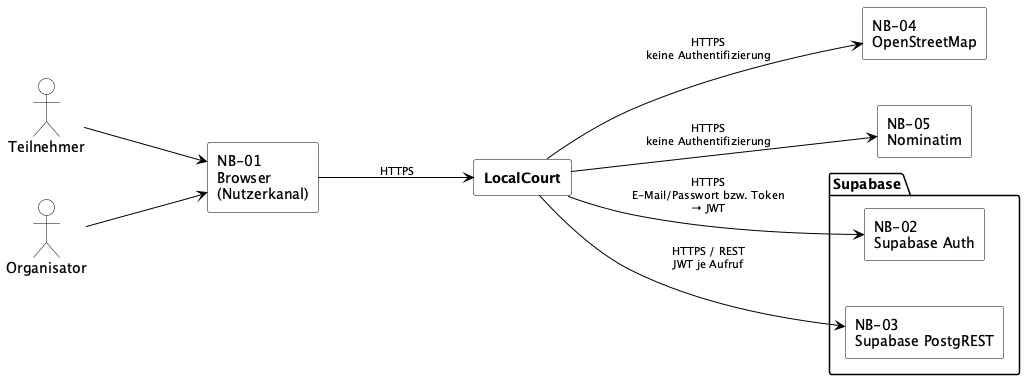
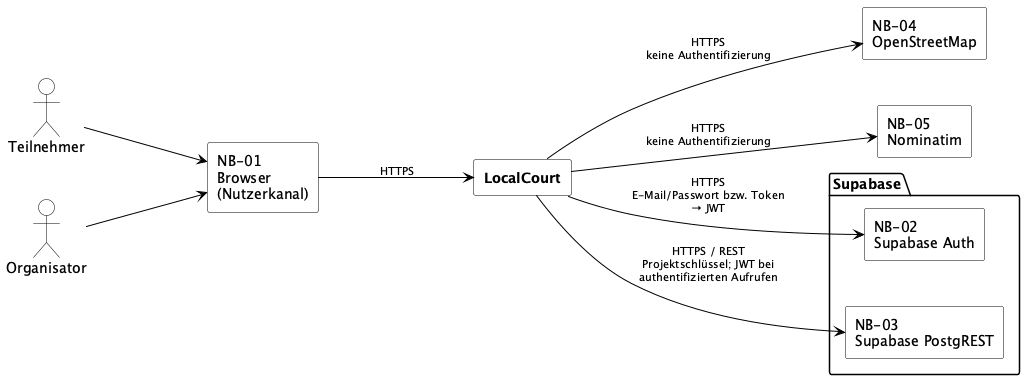
docs: align final specification and architecture consistency

Changed region(s): [[0.5886, 0.6495, 0.8364, 0.866], [0.5266, 0.5258, 0.5576, 0.6186], [0.5576, 0.6186, 0.5886, 0.6804]]

diff --git a/docs/arch/A05-building-block-view.md b/docs/arch/A05-building-block-view.md
@@ -32,7 +32,7 @@ Quelle: [`diagrams/A05-bausteinsicht-ebene1.puml`](diagrams/A05-bausteinsicht-eb
 
 ## 5.4 Whitebox Service-Schicht / Ebene 2
 
-Die Service-Schicht bündelt in der Zerlegung aus [5.1](#51-whitebox-localcourt--ebene-1) die servicebasierten Datenzugriffe und fachlichen Aktionen von LocalCourt in einem gemeinsamen Baustein — Kartenkacheln (NB-04) laufen davon unabhängig direkt über die UI-Komponentenschicht (siehe [5.2](#52-bausteindiagramm)). Damit die vier fachlichen Module und ihre Abhängigkeiten sichtbar werden, ohne das Übersichtsdiagramm aus 5.2 zusätzlich zu belasten, zeigt dieser Abschnitt die Service-Schicht als eigene Whitebox auf einer zweiten Ebene. Innerhalb dieser vier Module kapseln die **datenhaltenden Servicemodule** — `sessionService`, `courtService`, `userService` — die technische Persistenz fachlicher D1-Daten über NB-03 Supabase PostgREST/PostgreSQL. NB-02 Supabase Auth ist dabei kein eigener Speicherort fachlicher Daten; die Sitzung hält `AuthProvider` im Baustein App-Shell & Navigation, und ihr JWT geht als Identitätskontext in jeden NB-03-Aufruf ein, worauf die RLS-Policies aufsetzen ([A08 §8.3](A08-crosscutting-concepts.md#83-authentifizierung-und-zugriffsschutz)). `geocodingService` bildet dagegen ausschließlich den Zugriff auf den externen Auskunftsdienst NB-05 (Nominatim) ab und übernimmt keine Persistenzverantwortung. Eine eigene Persistenzschicht unterhalb der Service-Schicht existiert für keines der vier Module ([A08 8.1.3](A08-crosscutting-concepts.md#813-persistenzregel)).
+Die Service-Schicht bündelt in der Zerlegung aus [5.1](#51-whitebox-localcourt--ebene-1) die servicebasierten Datenzugriffe und fachlichen Aktionen von LocalCourt in einem gemeinsamen Baustein — Kartenkacheln (NB-04) laufen davon unabhängig direkt über die UI-Komponentenschicht (siehe [5.2](#52-bausteindiagramm)). Damit die vier fachlichen Module und ihre Abhängigkeiten sichtbar werden, ohne das Übersichtsdiagramm aus 5.2 zusätzlich zu belasten, zeigt dieser Abschnitt die Service-Schicht als eigene Whitebox auf einer zweiten Ebene. Innerhalb dieser vier Module kapseln die **datenhaltenden Servicemodule** — `sessionService`, `courtService`, `userService` — die technische Persistenz fachlicher D1-Daten über NB-03 Supabase PostgREST/PostgreSQL. NB-02 Supabase Auth ist dabei kein eigener Speicherort fachlicher Daten; die Sitzung hält `AuthProvider` im Baustein App-Shell & Navigation, und ihr JWT geht bei authentifizierten NB-03-Aufrufen als Identitätskontext ein, worauf die RLS-Policies aufsetzen (öffentliche Lesezugriffe laufen ohne Benutzer-JWT unter den anon-RLS-Regeln) ([A08 §8.3](A08-crosscutting-concepts.md#83-authentifizierung-und-zugriffsschutz)). `geocodingService` bildet dagegen ausschließlich den Zugriff auf den externen Auskunftsdienst NB-05 (Nominatim) ab und übernimmt keine Persistenzverantwortung. Eine eigene Persistenzschicht unterhalb der Service-Schicht existiert für keines der vier Module ([A08 8.1.3](A08-crosscutting-concepts.md#813-persistenzregel)).
 
 Neben diesen vier fachlichen Modulen liegen unter `src/services/` drei technische Hilfsmodule ohne eigene fachliche Verantwortung: `supabaseConfig.ts` und `supabaseClient.ts` stellen den konfigurierten NB-03-/NB-02-Zugang bereit, `sessionQueries.ts` bündelt die Spaltenliste von `v_session` und die Abbildung ihrer Zeilen auf die fachlichen Typen. Sie sind keine eigenen Bausteine, sondern Bestandteil der Service-Schicht.
 
@@ -48,5 +48,5 @@ Die Service-Schicht besteht aus vier fachlichen Modulen mit unterschiedlicher Ve
 |---|---|---|---|---|
 | `sessionService` | Sessions lesen/suchen/filtern; ruft die RPCs für Session-Erstellung, Beitritt und Check-in auf, ohne deren atomare Regeln selbst zu implementieren. | UC-02, UC-03, UC-05, UC-06, UC-11 (Lesen); UC-04/AF-01 (Beitritt, Aufruf `join_session`); UC-08, UC-09/AF-02 (Check-in, Aufruf `check_in`); UC-06/AF-04 (Aufruf `create_session`, PIN wird dabei serverseitig atomar erzeugt). | NB-03 Supabase PostgREST — Lesen über `v_session` sowie die RPCs `create_session`, `join_session`, `check_in` ([S1.4](../spec/S1-nachbarsysteme.md#s14-nb-03--supabase-postgrest)). | `src/services/sessionService.ts` |
 | `courtService` | Vorhandene Courts zur Auswahl lesen. Das Anlegen eines neuen Courts liegt nicht hier, sondern in `create_session`, damit kein verwaister Court zurückbleibt, wenn die Session-Erstellung scheitert ([ADR-001](A09-architecture-decisions.md#91-adr-001--atomare-fachoperationen-über-postgresql-funktionen-rpc-statt-clientseitiger-prüfung), [A06 §6.3](A06-runtime-view.md#63-session-und-court-erstellen)). | UC-10. | NB-03 Supabase PostgREST — Lesen ([S1.4](../spec/S1-nachbarsysteme.md#s14-nb-03--supabase-postgrest)). | `src/services/courtService.ts` |
-| `userService` | Profil und Sportpräferenzen lesen und aktualisieren. | UC-12. | NB-03 Supabase PostgREST — `my_profile()`, `profilAktualisieren`, `sportpraeferenzSetzen`/`-Entfernen` ([S1.4](../spec/S1-nachbarsysteme.md#s14-nb-03--supabase-postgrest)). Die Nutzerkennung kommt nicht aus einem eigenen NB-02-Aufruf, sondern serverseitig aus `auth.uid()` des mitgeführten JWT. | `src/services/userService.ts` |
+| `userService` | Profil und Sportpräferenzen lesen und aktualisieren. | UC-12. | NB-03 Supabase PostgREST — `my_profile()`, `profilAktualisieren`, `sportpraeferenzSetzen`/`-Entfernen` ([S1.4](../spec/S1-nachbarsysteme.md#s14-nb-03--supabase-postgrest)). Die Nutzerkennung kommt nicht aus einem eigenen NB-02-Aufruf, sondern serverseitig aus `auth.uid()` des bei authentifizierten Aufrufen mitgeführten JWT. | `src/services/userService.ts` |
 | `geocodingService` | Reverse-Geocoding eines gesetzten Kartenpins. | UC-10. | NB-05 Nominatim (`ortAufloesen`, [S1.6](../spec/S1-nachbarsysteme.md#s16-nb-05--nominatim-reverse-geocoding)). | `src/services/geocodingService.ts` |

diff --git a/docs/spec/E2-glossar.md b/docs/spec/E2-glossar.md
@@ -39,7 +39,7 @@ Die Begriffe in [E2.3](#e23-alphabetisches-glossar) sind **alphabetisch geordnet
 | **Baustein** | Ein in sich abgeschlossener Abschnitt der Spezifikation nach dem Siedersleben-Schema (z. B. P1, F2, D1, B1), identifiziert durch ein Kürzel und eine Kurzbezeichnung. Jeder Baustein beantwortet eine eigene Leitfrage. | Nicht zu verwechseln mit einem einzelnen Abschnitt (z. B. „F3.2") innerhalb eines Bausteins. Der Bearbeitungsstand jedes Bausteins ist ausschließlich im Spezifikationsindex gepflegt. | [E1](E1-leseanleitung.md#e14-überblick-der-bausteingruppen), [README](README.md#bausteine-der-spezifikation) |
 | **Beitritt** | Die Aktion, mit der sich ein angemeldeter Teilnehmer für eine Session anmeldet und dadurch einen Kapazitätsplatz belegt (UC-04). Die fachlichen Regeln stehen in AF-01. | Ergebnis eines erfolgreichen Beitritts ist eine Teilnahme mit Status `confirmed`. Abzugrenzen von **Check-in**: Der Beitritt reserviert vor der Session, der Check-in bestätigt die tatsächliche Anwesenheit während der Session; ein Check-in setzt einen vorherigen Beitritt voraus. | [F2 UC-04](F2-anwendungsfaelle.md#uc-04--session-beitreten), [F3](F3-anwendungsfunktionen.md#af-01--beitritts--und-kapazitätsregel) |
 | **Check-in** | Die Bestätigung der tatsächlichen Anwesenheit eines beigetretenen Teilnehmers vor Ort, per QR-Code (UC-08) oder gleichwertig per PIN (UC-09). Geprüft durch AF-02; nur möglich, solange die Session `active` ist. | Schreibweise siehe E2.2. Setzt einen vorherigen Beitritt voraus. Idempotent: ein wiederholter gültiger Check-in ändert den Zustand nicht erneut (`ALREADY_CHECKED_IN`). | [F2 UC-08/UC-09](F2-anwendungsfaelle.md#uc-08--check-in-per-qr-code-durchführen), [F3](F3-anwendungsfunktionen.md#af-02--check-in-validierung), [B1 DLG-06](B1-dialogspezifikation.md#b146-dlg-06--check-in) |
-| **Court** | Der fachliche Ort (Sportplatz, Halle o. Ä.), an dem eine Session stattfindet, mit Name, Ort und optionalen Koordinaten. Realisiert als Entitätstyp `court`. | „Court" und „Sportort" werden durchgehend **synonym** verwendet (z. B. UC-10 „Court / Sportort erfassen oder auswählen") — kein fachlicher Unterschied, sondern zwei Bezeichnungen für dasselbe Objekt. Der Entitätsname `court` ist technisch verbindlich; „Sportort" ist die deutsche Umschreibung in Prosa. Keine kommerzielle Buchungsfunktion. | [D1](D1-datenmodell.md#court--sportort), [F2 UC-10](F2-anwendungsfaelle.md#uc-10--court--sportort-erfassen-oder-auswählen) |
+| **Court** | Der fachliche Ort (Sportplatz, Halle o. Ä.), an dem eine Session stattfindet, mit Name, Ort und verpflichtenden Koordinaten. Realisiert als Entitätstyp `court`. | „Court" und „Sportort" werden durchgehend **synonym** verwendet (z. B. UC-10 „Court / Sportort erfassen oder auswählen") — kein fachlicher Unterschied, sondern zwei Bezeichnungen für dasselbe Objekt. Der Entitätsname `court` ist technisch verbindlich; „Sportort" ist die deutsche Umschreibung in Prosa. Keine kommerzielle Buchungsfunktion. | [D1](D1-datenmodell.md#court--sportort), [F2 UC-10](F2-anwendungsfaelle.md#uc-10--court--sportort-erfassen-oder-auswählen) |
 | **Datenmodell** | Die Gesamtheit der fachlichen Entitätstypen, Attribute und Beziehungen von LocalCourt, unabhängig von der technischen Umsetzung — Gegenstand des Bausteins D1. | Abzugrenzen von der technischen Repräsentation und Persistenz. D1 legt fest, welche fachlichen Daten und Beziehungen bestehen; deren technische Abbildung wird in der Architekturdokumentation beschrieben. | [D1](D1-datenmodell.md) |
 | **Datentyp** | Die fachliche Wertform eines Attributs (Wertebereich, Aufzählung, Validierungsregel) — Gegenstand des Bausteins D2, z. B. `Pin`, `SessionStatus`, `GeoCoordinate`. | Abzugrenzen von der technischen Repräsentation in TypeScript bzw. PostgreSQL; diese gehört zur Architektur und Implementierung. Fachliche Datentypnamen werden in `Backticks` geschrieben. | [D2](D2-datentypen.md) |
 | **Deep-Link** | Ein Link, der direkt in einen bestimmten Zustand von LocalCourt führt, insbesondere in den Check-in-Dialog mit Session-Bezug und PIN. Wird über den QR-Code kodiert und von der Kamera-App des Geräts geöffnet. | Technische Grundlage des QR-Code-Check-ins, aber kein eigenes Nachbarsystem — die Verarbeitung erfolgt im Browser. Nicht zu verwechseln mit einer eigenen QR-Scanner-Funktion (siehe **QR-Code**). | [S1](S1-nachbarsysteme.md#s12-nb-01--browser-nutzerkanal), [F3](F3-anwendungsfunktionen.md#af-04--pin--und-qr-code-erzeugung) |

diff --git a/docs/arch/A12-glossary.md b/docs/arch/A12-glossary.md
@@ -9,7 +9,7 @@ Das maßgebliche fachliche Glossar liegt in der Spezifikation ([E2](../spec/E2-g
 | **ADR** | Abkürzung für „Architecture Decision Record". LocalCourt dokumentiert vier solche Entscheidungen — ADR-001 (atomare Fachoperationen), ADR-002 (Service-Schicht als Integrationsgrenze), ADR-003 (Session-Status in der Datenbank) und ADR-004 (statischer Sportarten-Katalog). | [A09](A09-architecture-decisions.md) |
 | **Atomare Fachoperation** | Sammelbegriff für die drei serverseitig als unteilbare Transaktion ausgeführten Schreiboperationen `create_session`, `join_session`, `check_in`; laut ADR-001 der alleinige Schreibpfad für diese Vorgänge. In der Datenbank realisiert ([`supabase/migrations/`](../../supabase/migrations)) und vom Frontend über `sessionService` aufgerufen. Fachliche und technische Grundlagen siehe D1, F3 und N2. | [A09 ADR-001](A09-architecture-decisions.md#91-adr-001--atomare-fachoperationen-über-postgresql-funktionen-rpc-statt-clientseitiger-prüfung), [A08 §8.4](A08-crosscutting-concepts.md#84-atomare-fachoperationen-und-datenzugriff-über-die-service-schicht) |
 | **Deep-Link** | Verbindet in der Laufzeitsicht den Check-in per QR-Code mit dem Nutzerkanal NB-01: Die Kamera-App des Geräts öffnet den Link im Browser, der Check-in-Dialog übernimmt Session-Kennung und PIN. Kein eigenes Nachbarsystem. Fachliche Definition siehe E2. | [A06 §6.2](A06-runtime-view.md#62-check-in-per-qr-code-oder-pin), [S1.2](../spec/S1-nachbarsysteme.md#s12-nb-01--browser-nutzerkanal) |
-| **JWT** | Zugangstoken, das NB-02 Supabase Auth nach erfolgreicher Anmeldung ausgibt und das bei authentifizierten Aufrufen gegen NB-03 zur Nutzerzuordnung verwendet wird. Grundlage für N1-QA-03; der Supabase-Client führt es seit der Auth-Anbindung bei jedem Aufruf gegen NB-03 mit (§8.3). | [A03 §3.2](A03-context-and-scope.md#32-technischer-kontext), [A04 §4.1](A04-solution-strategy.md#41-technologie), [S1.3](../spec/S1-nachbarsysteme.md#s13-nb-02--supabase-auth) |
+| **JWT** | Zugangstoken, das NB-02 Supabase Auth nach erfolgreicher Anmeldung ausgibt und das bei authentifizierten Aufrufen gegen NB-03 zur Nutzerzuordnung verwendet wird. Grundlage für N1-QA-03; der Supabase-Client führt es bei authentifizierten Aufrufen zusätzlich zum öffentlichen Projektschlüssel mit, öffentliche Lesezugriffe erfolgen ohne Benutzer-JWT unter den anon-RLS-Regeln (§8.3). | [A03 §3.2](A03-context-and-scope.md#32-technischer-kontext), [A04 §4.1](A04-solution-strategy.md#41-technologie), [S1.3](../spec/S1-nachbarsysteme.md#s13-nb-02--supabase-auth) |
 | **Nachbarsystem (NB-nn)** | Stabile IDs für den Nutzerkanal NB-01 (Browser, kein menschlicher Akteur) und die vier weiteren Nachbarsysteme: NB-02 Supabase Auth, NB-03 Supabase PostgREST, NB-04 OpenStreetMap und NB-05 Nominatim. Fachliche Definition und Abgrenzung siehe E2/S1. | [A03](A03-context-and-scope.md#31-fachlicher-kontext), [S1](../spec/S1-nachbarsysteme.md) |
 | **RLS (Row-Level Security)** | Zugriffsschutzmechanismus auf Ebene der Datenbank, der die über NB-02 festgestellte Nutzeridentität auswertet. Wirkt auf Datenbankzugriffsebene und ersetzt eine eigene Backend-Autorisierungsschicht; RLS ist keine Frontend-Komponente. Fachliche Policies siehe N2.2. | [A04 §4.3](A04-solution-strategy.md#43-lösungsansätze-je-qualitätsziel), [A08 §8.3](A08-crosscutting-concepts.md#83-authentifizierung-und-zugriffsschutz) |
 | **RPC** | Aufruf einer serverseitigen PostgreSQL-Funktion über NB-03 PostgREST anstelle eines direkten Lese-/Schreibzugriffs auf eine Tabelle; in LocalCourt für die drei atomaren Fachoperationen umgesetzt. `sessionService` ruft die drei RPCs auf und gibt ihre Ergebniscodes weiter. | [A05 §5.4](A05-building-block-view.md#54-whitebox-service-schicht--ebene-2), [A09 ADR-001](A09-architecture-decisions.md#91-adr-001--atomare-fachoperationen-über-postgresql-funktionen-rpc-statt-clientseitiger-prüfung), [S1.4](../spec/S1-nachbarsysteme.md#s14-nb-03--supabase-postgrest) |

diff --git a/docs/spec/S1-nachbarsysteme.md b/docs/spec/S1-nachbarsysteme.md
@@ -16,7 +16,7 @@ Die folgenden Zusagen gelten für jede in S1 beschriebene Operation und werden u
 
 - **Synchron und blockierend.** Jeder Aufruf gehört zu einer Nutzeraktion im Browser und wird synchron beantwortet; es gibt weder Warteschlangen noch Hintergrundprozesse noch Push-Kanäle.
 - **Fehlerbehandlung.** Fehler eines Nachbarsystems werden an den aufrufenden Anwendungsfall weitergegeben und in den Fehlerzuständen aus [B1.5.4](B1-dialogspezifikation.md#b154-fehler--und-ladezustände) angezeigt; fachliche Ablehnungen (Ergebniscodes aus [F3](F3-anwendungsfunktionen.md)) sind davon zu unterscheiden und ändern den fachlichen Zustand nicht. Ist ein Nachbarsystem nicht erreichbar, bleibt LocalCourt so weit bedienbar, wie es ohne dieses System auskommt ([N1-QA-01](N1-nichtfunktionale-anforderungen.md#n1-qa-01--konsistenz-von-beitritt-und-check-in)).
-- **Authentifizierung.** Aufrufe gegen NB-03 tragen das Zugangstoken (JWT) aus NB-02. Der öffentliche Supabase-Projektschlüssel ist kein Geheimnis; der geheime Service-Role-Key wird vom Frontend **nie** verwendet und liegt nicht im Repository ([N1-QA-03](N1-nichtfunktionale-anforderungen.md#n1-qa-03--zugriffsschutz-und-datensparsamkeit)).
+- **Authentifizierung.** Aufrufe gegen NB-03 verwenden den öffentlichen Projektschlüssel; bei authentifizierten Zugriffen trägt der Client zusätzlich das Zugangstoken (JWT) der aktiven Sitzung aus NB-02 zur Benutzeridentifikation. Öffentliche Lesezugriffe (z. B. Suche, Karte, Session-Detail) können ohne Benutzer-JWT unter den dafür vorgesehenen RLS-Regeln erfolgen; auch sie sind durch RLS begrenzt. Der öffentliche Supabase-Projektschlüssel ist kein Geheimnis; der geheime Service-Role-Key wird vom Frontend **nie** verwendet und liegt nicht im Repository ([N1-QA-03](N1-nichtfunktionale-anforderungen.md#n1-qa-03--zugriffsschutz-und-datensparsamkeit)).
 
 ## S1.2 NB-01 — Browser (Nutzerkanal)
 
@@ -36,7 +36,7 @@ Anmeldung und Sitzungsverwaltung per E-Mail und Passwort. LocalCourt übernimmt 
 |---|---|
 | Zweck | Registrierung, An-/Abmeldung, Token-Erneuerung und Auslesen der angemeldeten Nutzerkennung. |
 | Schnittstelle | Fünf Operationen: `registrieren`, `anmelden`, `abmelden`, `sitzungErneuern`, `angemeldetenNutzerLesen`; Antwort ist jeweils eine Sitzung mit Zugangstoken (JWT). |
-| Ausgetauschte Daten | E-Mail/Passwort bzw. Token (Anfrage); Sitzung mit Token und Nutzerkennung (Antwort). Das Token begleitet danach jeden Aufruf gegen NB-03. |
+| Ausgetauschte Daten | E-Mail/Passwort bzw. Token (Anfrage); Sitzung mit Token und Nutzerkennung (Antwort). Bei authentifizierten Zugriffen begleitet das Token den Aufruf gegen NB-03. |
 | Abgrenzung | Kein Social-Login (OAuth), kein Passwort-Reset, keine E-Mail-Bestätigung, keine Mehrfaktor-Authentifizierung — alle setzen E-Mail-Versand voraus, der außerhalb des MVP liegt. Läuft das Token ab, leitet LocalCourt zur Anmeldung um. |
 
 ## S1.4 NB-03 — Supabase PostgREST

diff --git a/docs/arch/A08-crosscutting-concepts.md b/docs/arch/A08-crosscutting-concepts.md
@@ -181,9 +181,9 @@ Der Kontext führt drei Zustände: `loading`, `authenticated` und `anonymous`. `
 
 ADR-002 ordnet die Auth-Sitzung dem Baustein App-Shell & Navigation zu, nicht der Service-Schicht; sie liegt deshalb unter `src/auth/`. Der fachliche Profilzugriff — `my_profile()` und `sport_preference` — bleibt davon getrennt im `userService` ([A05 5.4](A05-building-block-view.md#54-whitebox-service-schicht--ebene-2)).
 
-Das JWT der Sitzung führt der Supabase-Client (`src/services/supabaseClient.ts`) bei jedem Aufruf gegen NB-03 mit; damit greifen die in [N2.2](../spec/N2-querschnittskonzepte.md#n22-row-level-security-rls) beschriebenen RLS-Policies für alle Zugriffe, die bereits über die Datenbank laufen. Die Datenminimierung ist dadurch nicht mehr nur eine Zusage: `my_profile()` gibt `city` ausschließlich für die eigene Zeile heraus, während fremde Profile über das Spalten-GRANT auf `display_name` und `avatar_url` beschränkt bleiben.
+Der Supabase-Client (`src/services/supabaseClient.ts`) verwendet den öffentlichen Projektschlüssel; bei authentifizierten Zugriffen führt er zusätzlich das JWT der aktiven Sitzung zur Benutzeridentifikation mit. Öffentliche Lesezugriffe (`/discover`, `/map`, `/sessions/:sessionId`) erfolgen ohne Benutzer-JWT unter den dafür vorgesehenen RLS-Regeln für `anon`. Damit greifen die in [N2.2](../spec/N2-querschnittskonzepte.md#n22-row-level-security-rls) beschriebenen RLS-Policies für alle Zugriffe, die bereits über die Datenbank laufen. Die Datenminimierung ist dadurch nicht mehr nur eine Zusage: `my_profile()` gibt `city` ausschließlich für die eigene Zeile heraus, während fremde Profile über das Spalten-GRANT auf `display_name` und `avatar_url` beschränkt bleiben.
 
-**Wirksamkeit.** Alle fachlichen Zugriffe laufen inzwischen über NB-03 und tragen das JWT der Sitzung; die Policies aus N2.2 greifen damit auf dem Datenweg und nicht nur über die Routen. Sichtbar wird das an der Teilnehmerliste: Ein Teilnehmer sieht dort ausschließlich die eigene Teilnahme, der Organisator die vollständige Liste (UC-07).
+**Wirksamkeit.** Alle fachlichen Zugriffe laufen inzwischen über NB-03; authentifizierte Zugriffe tragen das JWT der Sitzung, öffentliche Lesezugriffe laufen unter den anon-RLS-Regeln; die Policies aus N2.2 greifen damit auf dem Datenweg und nicht nur über die Routen. Sichtbar wird das an der Teilnehmerliste: Ein Teilnehmer sieht dort ausschließlich die eigene Teilnahme, der Organisator die vollständige Liste (UC-07).
 
 **Betroffene Bausteine ([A05](A05-building-block-view.md)):** App-Shell & Navigation. **Betroffene Use Cases:** UC-01 unmittelbar; mittelbar jede geschützte Aktion.
 

diff --git a/docs/spec/B1-dialogspezifikation.md b/docs/spec/B1-dialogspezifikation.md
@@ -132,7 +132,7 @@ Der Dialog hat zwei Zustände: *Anmelden* und *Registrieren* (umschaltbar). Die 
 
 | Feld | Art | Datentyp | Bezug Datenmodell | Vorbelegung | Prüfung / Hinweise |
 |---|---|---|---|---|---|
-| Kartenansicht | Anzeige | Karte (OSM/Leaflet) | `court.coordinates` | Standardregion | nur Courts mit Koordinaten; sonst nur Liste (Graceful Degradation, UC-02) |
+| Kartenansicht | Anzeige | Karte (OSM/Leaflet) | `court.coordinates` | Standardregion | alle gespeicherten Courts besitzen Koordinaten und erscheinen als Pin (UC-02) |
 | Sportart-Filter | Eingabe (Kann) | Auswahl | `sport` (Katalog) | „Alle" | wie DLG-02 |
 | Session-Marker | Anzeige | Marker je Session | `session` ↔ `court` | — | nur `scheduled`/`active` |
 | Vorschaukarte | Anzeige | Kachel | `session` (title, sport, status, start_at), abgeleitet Plätze | ausgeblendet | erscheint nach Marker-Auswahl |
@@ -179,7 +179,7 @@ Der Dialog hat zwei Zustände: *Anmelden* und *Registrieren* (umschaltbar). Die 
 | Titel, Sportart, Status | Anzeige | Text, Katalog, `SessionStatus` | `session.title`, `sport`, abgeleitet `status` | — | Statusdarstellung gemäß AF-03 |
 | Beschreibung | Anzeige | Text | `session.description` | — | leer möglich |
 | Datum / Uhrzeit / Dauer | Anzeige | Timestamp, Duration | `session.start_at`, `duration_min` | — | Ende = Start + Dauer |
-| Sportort | Anzeige | Text (+ Kartenausschnitt) | `court.name`, `city`; Karte nur bei Koordinaten | — | — |
+| Sportort | Anzeige | Text (+ Kartenausschnitt) | `court.name`, `city`; Kartenausschnitt aus `coordinates` | — | — |
 | Organisator | Anzeige | Text | `profile.display_name` via `organizer.user_id` | — | — |
 | Belegung | Anzeige | Text/Balken | abgeleitet `confirmed_count` / `max_participants` | — | in jedem Zustand sichtbar |
 | Teilnehmerliste | Anzeige | Liste | `participant` (→ `profile.display_name`, optional `profile.avatar_url`, `status`) | — | **nur Organisator-Zustand** (UC-07): je Teilnehmer Anzeigename, optionales Profilbild und Check-in-Status. Andere Nutzer sehen keine fremden Teilnahmen — ein beigetretener Teilnehmer nur seine eigene (Anzeigename, Profilbild), ein Gast oder nicht Beigetretener nur die Belegung ([N2.2](N2-querschnittskonzepte.md#n22-row-level-security-rls), N1-QA-03) |

diff --git a/docs/spec/D1-datenmodell.md b/docs/spec/D1-datenmodell.md
@@ -16,7 +16,7 @@ Quelle: [`diagrams/D1-er-diagramm.puml`](diagrams/D1-er-diagramm.puml).
 |---|---|---|---|
 | **`profile`** | Technischer Nutzeraccount mit Basisprofil und Sportpräferenzen; referenziert die Supabase-Auth-Kennung. Teilnahme (`participant`) und Organisation (`organizer`) einer Session sind eigene Auflösungsentitäten zwischen Profil und Session — keine Eigenschaften der Person selbst (siehe [Rollenmodellierung](#rollenmodellierung-organisator-und-teilnehmer)). | `user_id` (= Auth-Kennung) | UC-01, UC-12; AF-01/AF-02 (angemeldeter Nutzer) |
 | **`sport`** | Katalogeintrag einer Sportart (z. B. Fußball, Basketball). Vordefinierte Referenzdaten. | `sport_id` | UC-02, UC-06, UC-12 |
-| **`court`** | Sportort/Platz, an dem Sessions stattfinden. Fachlich benannt, optional geokodiert. | `court_id` | UC-10, UC-02, UC-03 |
+| **`court`** | Sportort/Platz, an dem Sessions stattfinden. Fachlich benannt und verortet (Koordinaten verpflichtend). | `court_id` | UC-10, UC-02, UC-03 |
 | **`session`** | Eine konkrete Sport-Session mit Zeit, Ort, Sportart, Kapazität und Check-in-Geheimnis. Zentrales Objekt des Systems. | `session_id` | UC-02..UC-09, UC-11; AF-01..AF-04 |
 | **`organizer`** | Organisation **einer Session** durch ein Profil — löst die 1:1-Beziehung zwischen `session` und dem organisierenden `profile` auf; entsteht atomar mit der Session. | `organizer_id`, fachlich eindeutig über `session_id` | UC-06; F1 GP-01 A2 |
 | **`participant`** | Teilnahme **eines Profils** an einer Session inkl. Beitritts- und Check-in-Zustand — kein eigener Personentyp, sondern Auflösung der n:m-Beziehung Profile↔Session. | `participant_id`, fachlich eindeutig über (`session_id`, `user_id`) | UC-04, UC-07, UC-08, UC-09; AF-01, AF-02 |

diff --git a/docs/arch/A03-context-and-scope.md b/docs/arch/A03-context-and-scope.md
@@ -31,7 +31,7 @@ Quelle: [`diagrams/A03-technischer-kontext.puml`](diagrams/A03-technischer-konte
 | Verbindung | Übertragung | Authentifizierung |
 |---|---|---|
 | LocalCourt ↔ NB-02 Supabase Auth | HTTPS | E-Mail/Passwort bzw. Token (Anfrage); Antwort liefert JWT |
-| LocalCourt ↔ NB-03 Supabase PostgREST | HTTPS / REST | JWT aus NB-02 je Aufruf |
+| LocalCourt ↔ NB-03 Supabase PostgREST | HTTPS / REST | Öffentlicher Projektschlüssel; bei authentifizierten Aufrufen zusätzlich JWT aus NB-02; anonyme Lesezugriffe nur unter RLS |
 | LocalCourt → NB-04 OpenStreetMap | HTTPS | keine |
 | LocalCourt ↔ NB-05 Nominatim | HTTPS | keine |
 
